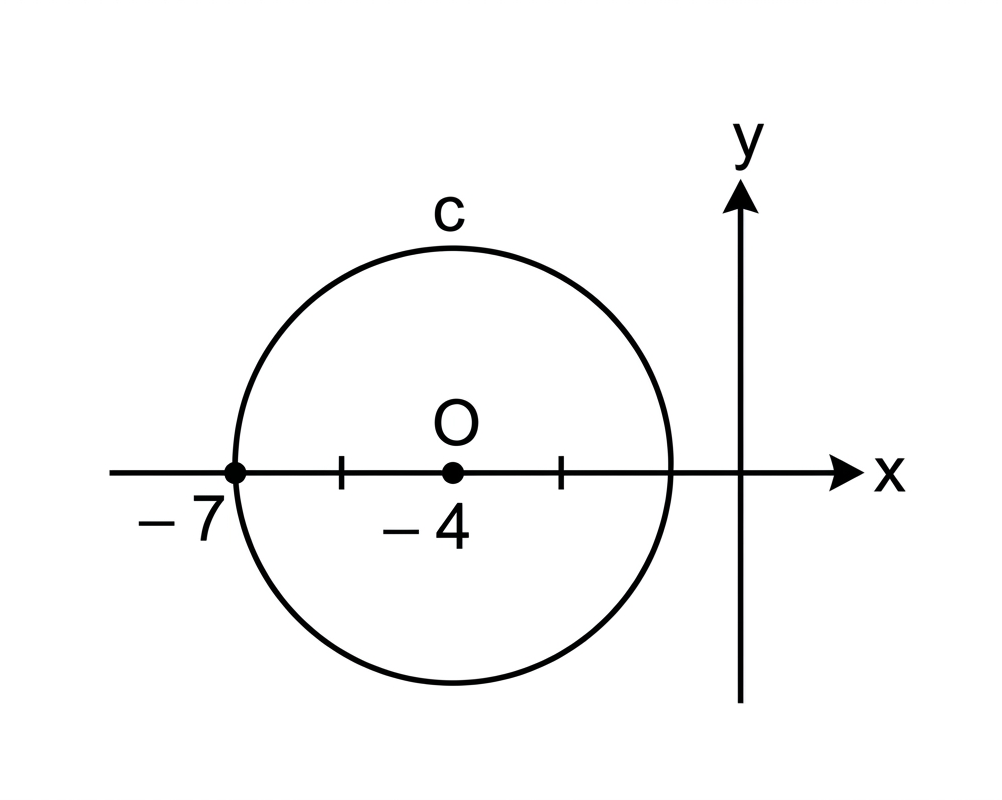
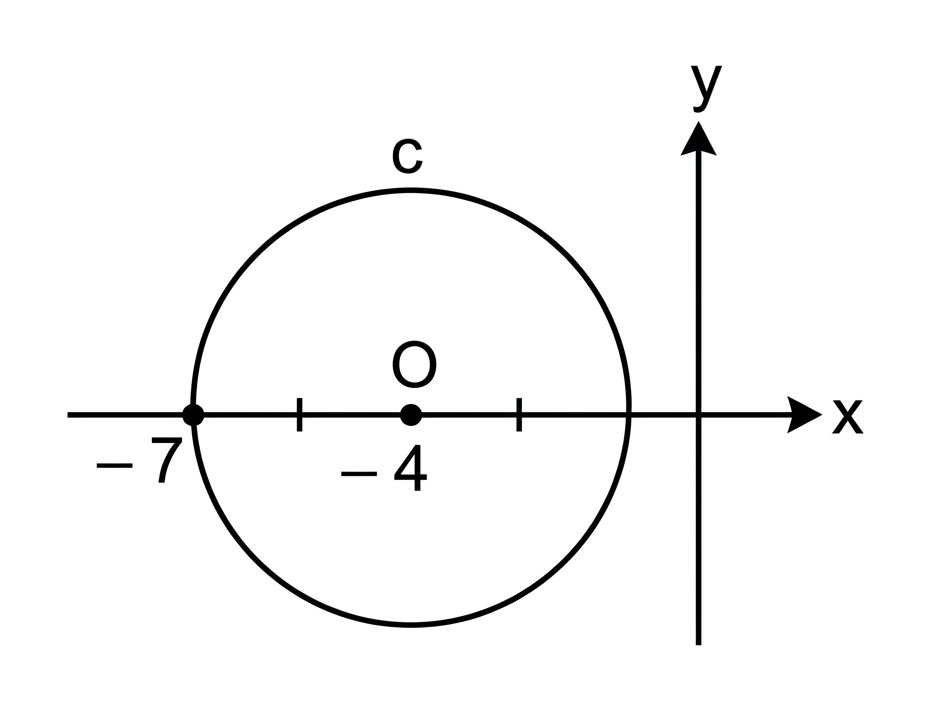
The hint panel now applies the same font scale as the question content.
Change in `app/test/page.tsx`: the hint `<aside>` style is now `{ width: hintWidth, zoom: scale }`, so it uses the same `zoom` value (`scale` from `useFontScale`) as the `QuestionExperience` wrapper. This keeps the hint panel's font size in sync with the question at every font-scale step (A−/A+).

Typecheck, lint (0 errors), and all 27 tests pass.

Changed region(s): [[0.0625, 0.0931, 0.9375, 0.8999]]

diff --git a/apps/web/app/test/page.tsx b/apps/web/app/test/page.tsx
@@ -13,6 +13,7 @@ import SectionModal from "@/app/components/SectionModal";
 import HintModal from "@/app/components/HintModal";
 import { QuestionExperience } from "@/app/components/assessment/QuestionExperience";
 import { DesktopNavigator } from "@/app/components/assessment/DesktopNavigator";
+import { useHintPanelWidth } from "@/app/components/assessment/useQuestionLayout";
 import { useAssessment } from "@/lib/hooks/useAssessment";
 import { useFontScale } from "@/lib/font-scale";
 import { AssessmentErrorBoundary } from "@/app/components/error/AssessmentErrorBoundary";
@@ -27,6 +28,7 @@ import { FULL_TEST_TOPICS } from "@/lib/constants";
 export default function QuestionPage() {
   const router = useRouter();
   const { increase, decrease, scale, scaleIndex, steps } = useFontScale();
+  const hintWidth = useHintPanelWidth();
 
   // Modals state
   const [isImageModalOpen, setIsImageModalOpen] = useState(false);
@@ -46,13 +48,18 @@ export default function QuestionPage() {
 
   useEffect(() => {
     if (!isHintModalOpen) return;
-    const handlePointerDown = (e: MouseEvent) => {
+    const handleClick = (e: MouseEvent) => {
       if (hintPanelRef.current && !hintPanelRef.current.contains(e.target as Node)) {
         setIsHintModalOpen(false);
       }
     };
-    document.addEventListener("mousedown", handlePointerDown);
-    return () => document.removeEventListener("mousedown", handlePointerDown);
+    const timer = setTimeout(() => {
+      document.addEventListener("click", handleClick);
+    }, 0);
+    return () => {
+      clearTimeout(timer);
+      document.removeEventListener("click", handleClick);
+    };
   }, [isHintModalOpen]);
 
   const handleFinishTest = useCallback(() => {
@@ -272,7 +279,6 @@ export default function QuestionPage() {
             {!reviewMode && (
               <button
                 onClick={() => setIsHintModalOpen((prev) => !prev)}
-                onMouseDown={(e) => e.stopPropagation()}
                 className="flex items-center justify-center w-8 h-8 md:w-14 md:h-14 bg-card rounded-sm border border-border shadow-sm hover:bg-muted transition-colors"
                 title="Pistas"
                 aria-label="Pistas"
@@ -287,7 +293,7 @@ export default function QuestionPage() {
 
       <div className="flex flex-1 min-h-0">
         {!isHintModalOpen && (
-          <aside className="hidden lg:flex lg:w-80 xl:w-70 shrink-0 flex-col border-r border-border bg-card min-h-0">
+          <aside key="navigator" className="hidden lg:flex lg:w-80 xl:w-70 shrink-0 flex-col border-r border-border bg-card min-h-0">
             <DesktopNavigator
               testMode={testMode}
               sections={navigatorSections}
@@ -309,7 +315,7 @@ export default function QuestionPage() {
           </aside>
         )}
 
-        <div className="flex-1 min-w-0 min-h-0 overflow-hidden [scrollbar-width:none] [-ms-overflow-style:none] [&::-webkit-scrollbar]:hidden" style={{ zoom: scale }}>
+        <div key="question" className="flex-1 min-w-0 min-h-0 overflow-hidden [scrollbar-width:none] [-ms-overflow-style:none] [&::-webkit-scrollbar]:hidden" style={{ zoom: scale }}>
           <div className="px-8 mx-auto h-full flex flex-col">
             <QuestionExperience
               question={currentQuestion}
@@ -335,8 +341,10 @@ export default function QuestionPage() {
 
         {isHintModalOpen && (
           <aside
+            key="hint"
             ref={hintPanelRef}
-            className="hidden lg:flex lg:w-97 xl:w-120 shrink-0 flex-col border-l border-border bg-card min-h-0"
+            style={{ width: hintWidth, zoom: scale }}
+            className="hidden lg:flex shrink-0 flex-col border-l border-border bg-card min-h-0"
           >
             <HintModal
               keywords={currentQuestion.keywords}

diff --git a/apps/web/app/components/assessment/useQuestionLayout.ts b/apps/web/app/components/assessment/useQuestionLayout.ts
@@ -293,3 +293,35 @@ export function useQuestionLayout({
     graphMax: plan?.graphMax ?? null,
   };
 }
+
+// ---------------------------------------------------------------------------
+// Hint panel width
+// ---------------------------------------------------------------------------
+// The hint panel (HintModal) sits beside the question as a sibling, in the
+// unzoomed viewport coordinate space. Its width is chosen to keep the hint
+// text clear and complete (a comfortable reading measure) while leaving the
+// question enough room, so it only shrinks when the viewport gets tight.
+
+const HINT_PANEL_IDEAL_PX = 440;
+const HINT_PANEL_MIN_PX = 320;
+const MIN_QUESTION_SPACE_PX = 560;
+
+export function computeHintPanelWidth(availableWidth: number): number {
+  const bySpace = availableWidth - MIN_QUESTION_SPACE_PX;
+  return Math.min(HINT_PANEL_IDEAL_PX, Math.max(HINT_PANEL_MIN_PX, bySpace));
+}
+
+/** Reactive width (px) for the hint panel, following the viewport size. */
+export function useHintPanelWidth(): number {
+  const [width, setWidth] = useState<number>(HINT_PANEL_IDEAL_PX);
+
+  useEffect(() => {
+    if (typeof window === "undefined") return;
+    const update = () => setWidth(computeHintPanelWidth(window.innerWidth));
+    update();
+    window.addEventListener("resize", update);
+    return () => window.removeEventListener("resize", update);
+  }, []);
+
+  return width;
+}
